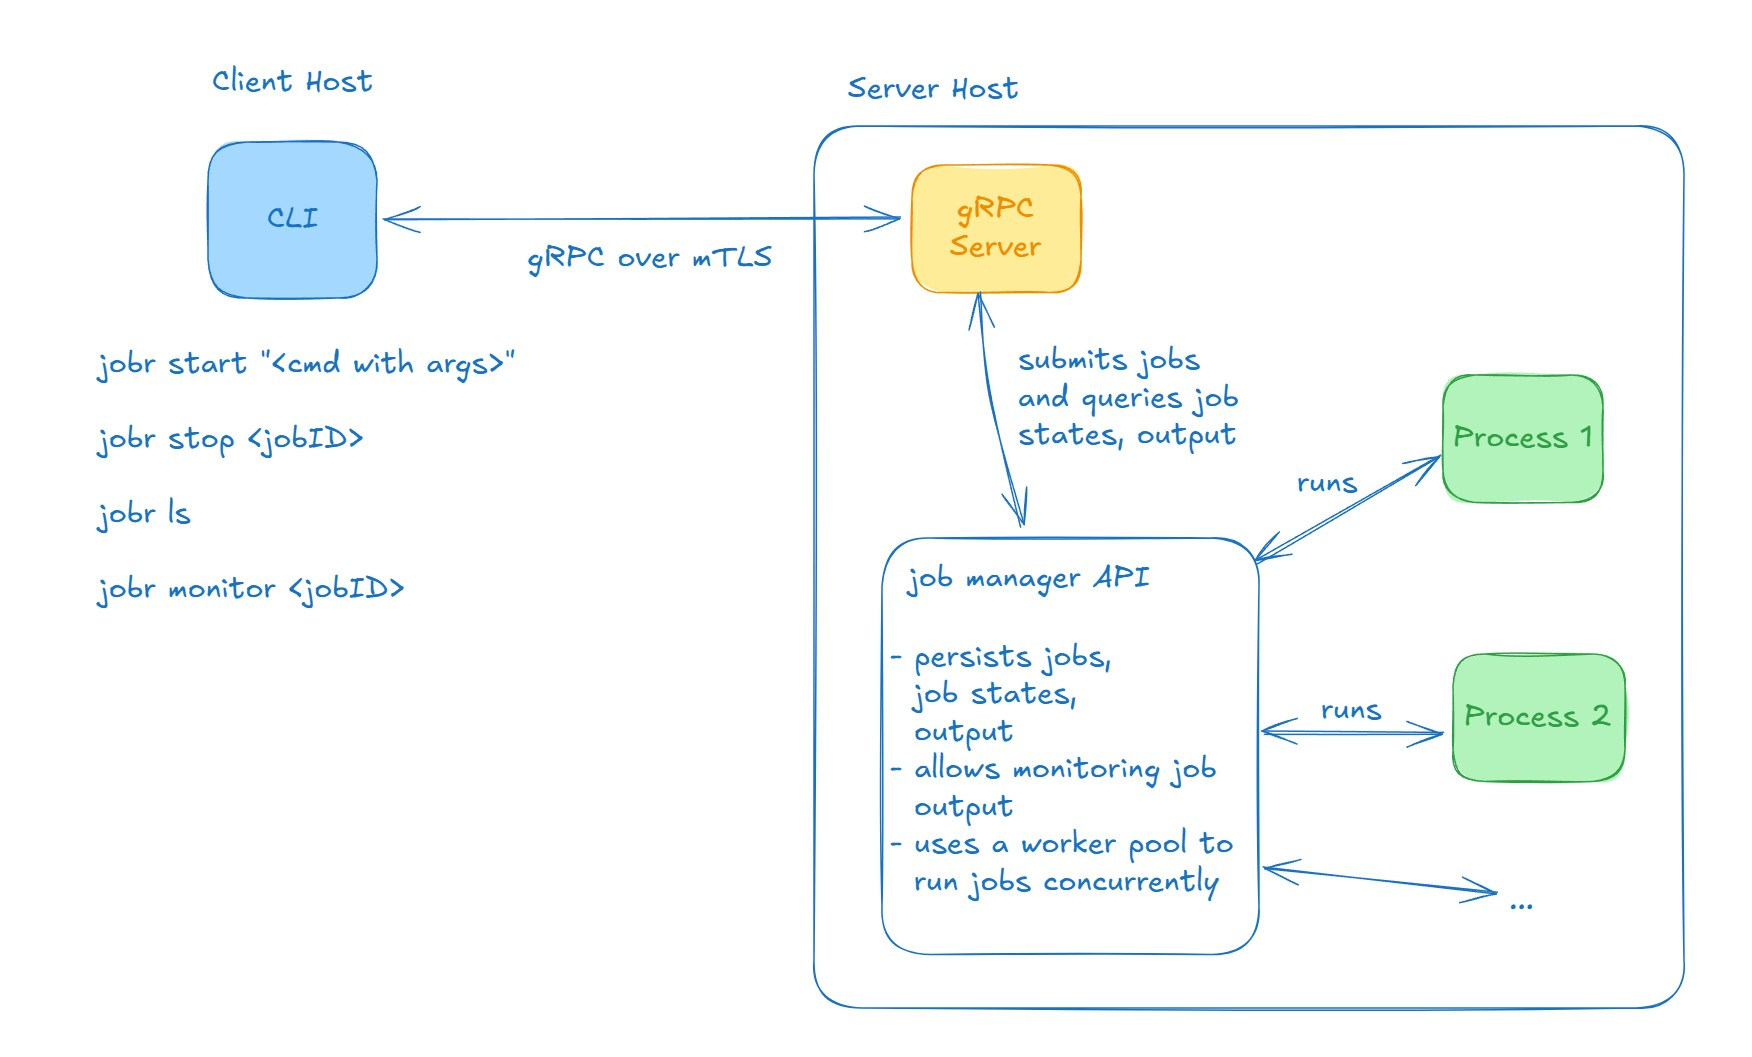
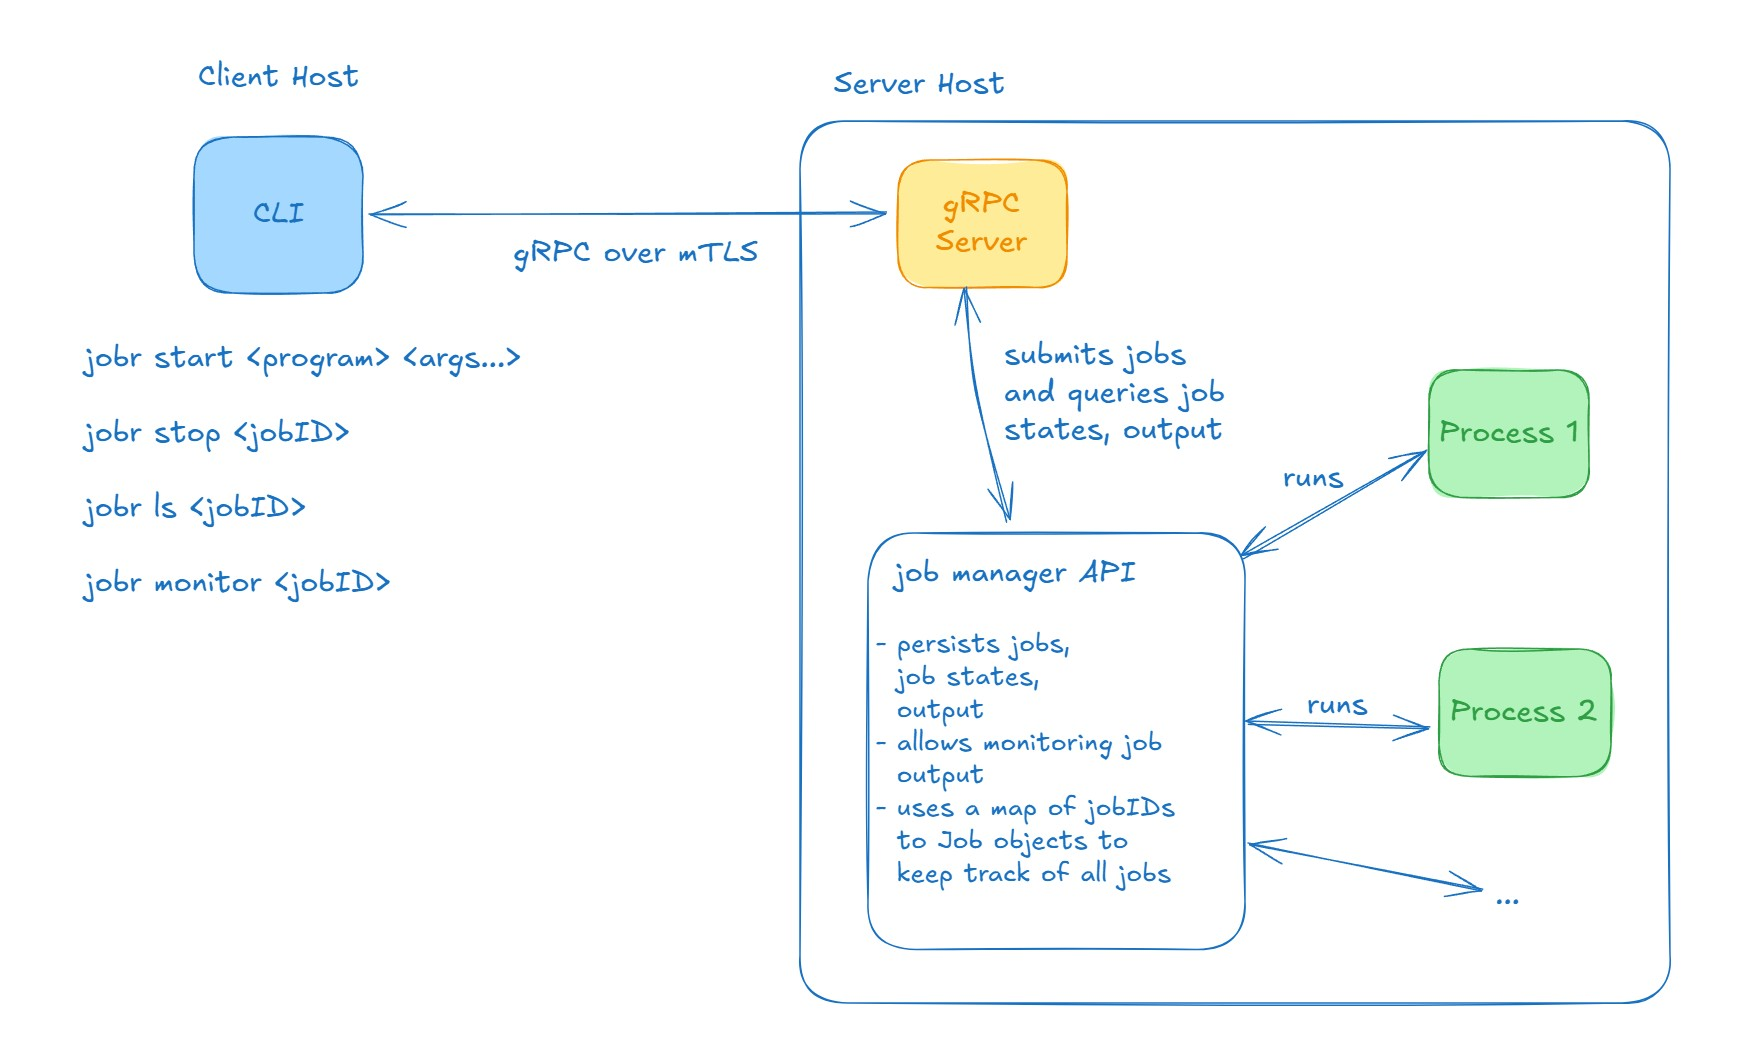
Updated diagram. Added TLS and CA info to Authentication section. Fixed start command by accepting program and args separately and updated example. Also changed the Start method's return type in .proto. Reduced scope of ls command to return a singular job state for a given id and updated examples. E

diff --git a/design.md b/design.md
@@ -30,11 +30,17 @@ The following diagram illustrates the commands, core modules and how they relate
 
 The system uses mTLS authentication to create a secure communication channel between CLI clients and the gRPC server.
 
-The server uses the CN name contained in the client certificate to determine the client's role; either `user` or `admin`.
+TLS Version 1.3 is used which does not require any cipher suite preferences.
+
+For development and testing:
+- A self-signed CA cert will be generated.
+- 3 RSA key pairs will be generated to set up the client user, client admin, and server. All certs will be signed with the generated CA.
+
+The server will use the CN name contained in the client certificate to determine the client's role; either `user` or `admin`.
 
 ### Role differences
-- Users can list, monitor and stop jobs that they submitted.
-- Admins can list, monitor and stop jobs submitted by _any_ user.
+- Users can list the status of, monitor and stop jobs that they submitted.
+- Admins can list the status of, monitor and stop jobs submitted by _any_ user.
 
 ## Security Vulnerabilities
 
@@ -60,46 +66,51 @@ The `jobr` CLI app is a user-friendly interface for remote job execution and man
 For mTLS authentication, the client must set environment variables:
 - `CLIENT_CERT_FILE` - Path to public certificate containing identity information and public key.
 - `CLIENT_KEY_FILE` - Path to private key file to generate a signature that the server verifies.
-- `CA_FILE` - Path to CA cert to verify server certificate.
+- `CLIENT_CA_FILE` - Path to CA cert to verify server certificate.
 
 ### Commands 
 
 #### Start
 
-`start "<command with args>"`
+`start <program> <args...>`
 
-Submits the given shell command to the server and tails the job output, until the user presses ctrl+c. 
-The assigned job id is printed first so that the user can use it for other commands.
-The job continues processing even if the client is no longer tailing the output.
+The CLI application receives the program and all specified arguments.
+It submits the given program with its arguments (`os.Args[2:]`) to the server and receives the assigned job id.
 
-Example
-```sh
-$ jobr start "echo Hello!"
-Job id: 7766b
-Hello!
-```
-
-
-#### List jobs
-
-`ls`
-
-Lists all jobs submitted by the user. If the user is an admin, then lists jobs submitted by all users.
+The job id is printed to `stdout` directly.
 
 Example
 ```sh
-$ jobr ls
-JOB ID     COMMAND       STATUS     DURATION START TIME
-7766b      "echo Hello!" completed  1ms      2025-10-20T22:10:04.191Z
-112ab      "echo test"   completed  1ms      2025-10-20T22:11:00.191Z
+$ jobr start echo Hello!
+7766b
 ```
+
+
+#### List Job Status
+
+`ls <jobId>`
+
+Lists the job status for the given job id. An admin can list the status of any job, while a user can only list the status of jobs they submitted.
+
+Example for a successful job
+```sh
+$ jobr ls 7766b
+Status:COMPLETED ExitCode:0
+```
+
+Example for a job where the program was not found. The client can use the `monitor` command to see the errors since it combines both `stdout` and `stderr` streams.
+```sh
+$ jobr ls 7766b
+Status:FAILED ExitCode:127
+```
+
 
 
 #### Stop
 
 `stop <jobId>`
 
-Stops the job denoted by the given `jobId`. The `jobId` is a 5 character GUID assigned to each submitted job by the job manager which can be queried using the `ls` command.
+Stops the job denoted by the given `jobId`. The `jobId` is a 5 character GUID assigned to each submitted job by the job manager.
 A user can stop jobs they have started, while an admin can stop any job.
 An empty response indicates success, while an error with a status code provides information for why the job couldn't be stopped (NOT_FOUND, UNAUTHORIZED).
 
@@ -126,18 +137,16 @@ test
 
 ## GRPC Server
 
-The gRPC Server implements handlers for all supported job actions listed in the `.proto` file. For certain rpc methods, the responses can change based on the client's role derived from their certificate identity.
+The gRPC Server implements handlers for all supported job actions listed in the `.proto` file. For certain rpc methods, the responses differ based on the client's role derived from their certificate identity.
 
 The server is responsible for
 - Implementing all RPC methods defined in the `.proto` file with appropriate responses and status codes.
 - Authentication using mTLS with client and server certificates and authorization using CN name derived from the client certificate.
-- Wrapping the job manager library and graceful shutdown of all goroutines when exiting.
-
 
 For mTLS authentication, the server env must set environment variables:
 - `SERVER_CERT_FILE` - Path to public certificate containing identity information and public key.
 - `SERVER_KEY_FILE` - Path to private key file to generate a signature that the client verifies.
-- `CA_FILE` - Path to CA cert to verify client certificate.
+- `SERVER_CA_FILE` - Path to CA cert to verify client certificate.
 
 ## Job Manager API Libary
 
@@ -149,15 +158,75 @@ It is responsible for
 - Accepting new jobs for concurrent job execution using a worker pool.
 - Persisting job metadata and outputs for each submitted job.
   - Job ID is a 5 character GUID
-  - Job duration based on how much time was spent in the running state.
+  - Job output is stored in a `bytes.Buffer`
 - Updating the job status appropriately
   - `pending` for jobs accepted but not started
   - `running` for jobs executing on the server
   - `completed` for jobs that finished execution successfully
-  - `failed` for jobs that finished execution with a nonzero exit code, or timed out
+  - `failed` for jobs that finished execution with a nonzero exit code
   - `stopped` for jobs that were explicitly stopped by a user or admin
 - Tailing job output independent of job execution.
-- Gracefully stopping a job by first terminating the launched OS process and it's calling goroutine.
+- Gracefully stopping a job by cancelling the `exec.Cmd` context. 
+
+### Output Streaming
+
+A job can be monitored by multiple clients during job execution and afterwards.
+The client receives all historical output when they begin monitoring a job.
+If the command is `running`, the client tails the output until the status changes, or they press ctrl+c to stop tailing.
+
+This is current implementation plan to achieve this behavior.
+
+1. Job manager receives a new command from the GRPC Server to execute.
+2. It initializes a new `Job` type with a new job id, an `exec.Cmd` value, and a `bytes.Buffer` as an in-memory store.
+3. The `exec.Cmd` type allows lets the job manager access the `StdoutPipe` and `StderrPipe` as `io.ReadCloser` values. The manager creates and starts two goroutines to read from each pipe, respectively, and write to the `bytes.Buffer`. The writing can be synchronized by using a `RWMutex`, so that only one goroutine can write at a given time, and multiple reader goroutines can access the output history.
+4. Once the command starts running, it's output gets piped to the `bytes.Buffer`. In order to broadcast the output and allow decoupled "listeners" to receive the historical data, the `Job` type should contain a collection of listeners `[]Listener`. Each `Listener` provides a channel on which to send the output. So as each of the piped `stderr` and `stdout` outputs are written to the `bytes.Buffer`, those goroutines also iterate over the `Listeners` collection, and push to each channel. The manager should have an `AddListener` method which should be called after historical outputs have been sent to the listener channel to subscribe them.
+5. When the job ends, all listener channels should be closed. Any new requests to monitor the output will simply get the historcal data in that job's `bytes.Buffer`.
+  
+The sequence diagram describes the flow.
+
+```mermaid
+sequenceDiagram
+  title Job Initialization
+  participant GRPC as GRPC Server
+  participant JM as Job Manager
+  participant Job as Job Instance
+  participant Cmd as exec.Cmd
+  participant JT as Jobs Table<br/>map[string]*Job
+
+  Note over GRPC,JM: Step 1: Receive Command
+  GRPC->>JM: Submit Command Request
+
+  Note over JM,Job: Step 2: Initialize Job
+  JM->>JM: Generate job id
+  JM->>Job: Create *Job with id, exec.Cmd and bytes.Buffer
+  JM->>JT: Add to table with jobId as key
+  Job->>Job: Initialize empty []Listener
+
+
+  Note over Job,Cmd: Step 3: Setup Pipes & Start Readers
+  Job->>Cmd: Get StdoutPipe() -> io.ReadCloser
+  Job->>Cmd: Get StderrPipe() -> io.ReadCloser
+  Job->>Job: Start goroutines reading from pipes,<br/> writing to bytes.Buffer and broadcast to []Listeners
+  Job->>Cmd: Start() to begin executing job without blocking
+```
+
+
+Access to `bytes.Buffer` for reading/writing, and to the `[]Listener` collection to add/remove a listener will require mutexes since they're updated from separate goroutines.
+
+In order to remove a listener when the client disconnects with ctrl+c, the GRPC server can use the request's `ctx.Done()` signal and call the `RemoveListener` method. This will also close the listener's channel.
+
+
+### Stopping a Running Job
+
+To stop a running job, the plan is to use a cancellable context created when the job is initialized, and run `cancel()` when a `Stop` request is received.
+
+The manager passes this context to the [CommandContext](https://pkg.go.dev/os/exec#CommandContext) function to get an `exec.Cmd` reference.
+
+This allows the command to invoke it's `Cancel` function to kill the process when the context is done.
+
+The `StderrPipe` and `StdoutPipe` streams will subsequently close, causing the goroutines reading from them to close any listener channels before returning.
+
+
 
 ## Tests
 
